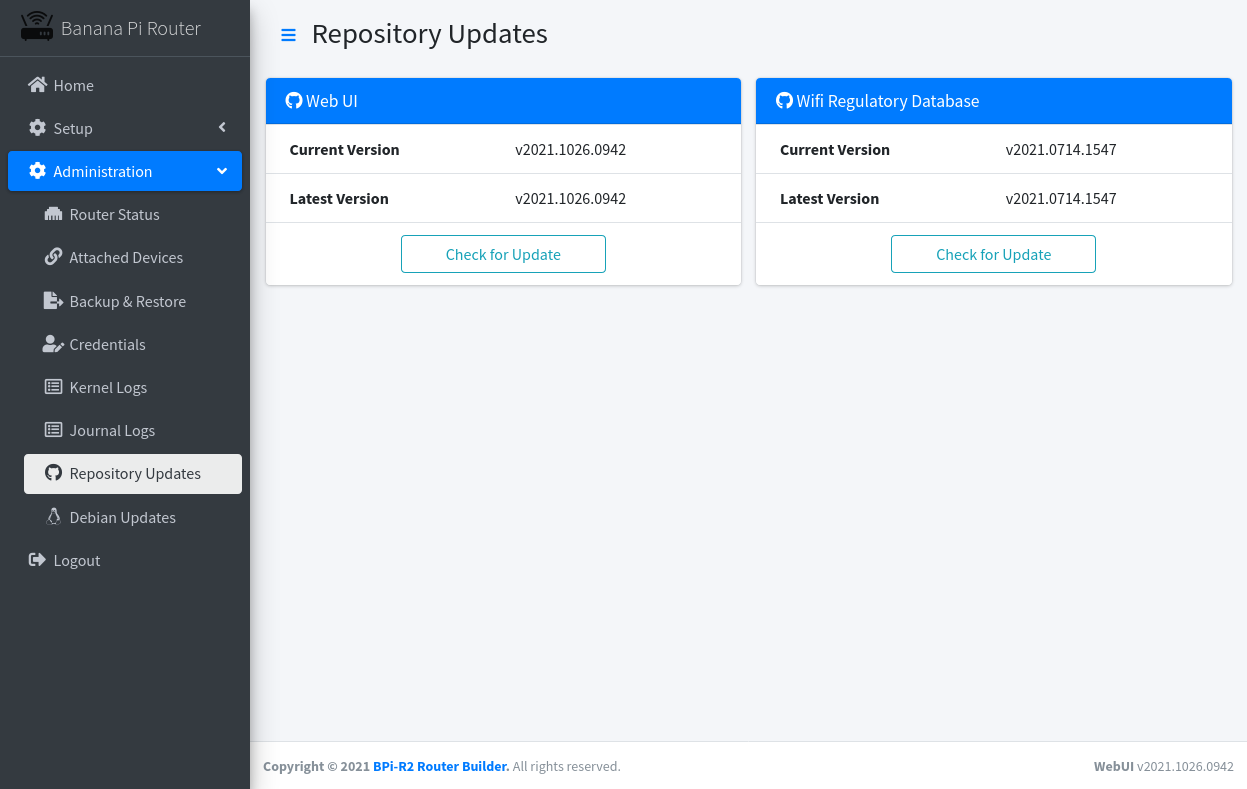
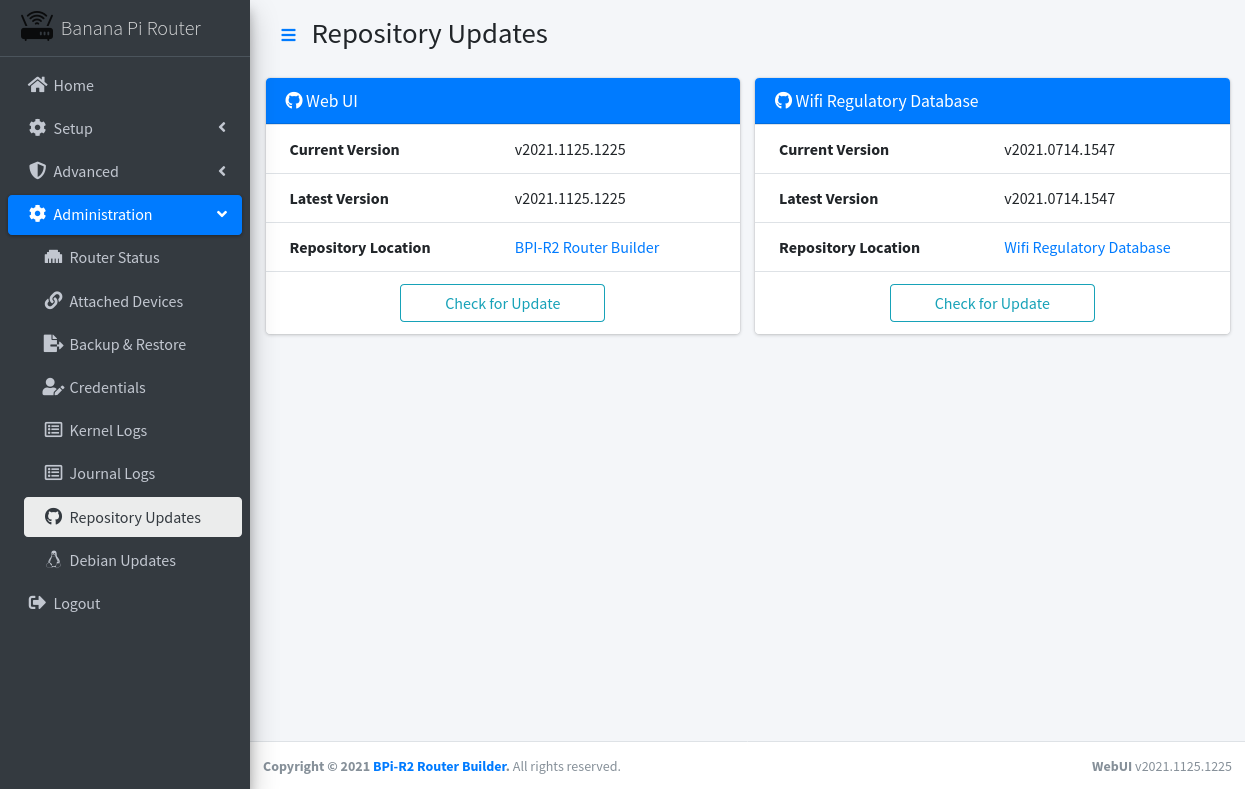
Updated WebUI Admin / Repository Updates

diff --git a/router/includes/admin-repo.php b/router/includes/admin-repo.php
@@ -1,7 +1,7 @@
 <?php
 site_menu();
 
-function show_repo($title, $repo)
+function show_repo($title, $repo, $url, $alt_desc = null)
 {
 	echo '
 		<div class="col-md-6">
@@ -19,6 +19,10 @@ function show_repo($title, $repo)
 						<tr>
 							<td><strong>Latest Version</strong></td>
 							<td><span id="', $repo, '_latest"><i>Retrieving...</i></span></td>
+						</tr>
+						<tr>
+							<td><strong>Repository Location</strong></td>
+							<td><a href="', $url, '">', $alt_desc == null ? $title : $alt_desc, '</a></td>
 						</tr>
 						<tr id="', $repo, '_check_div">
 							<td colspan="2">
@@ -42,8 +46,8 @@ function show_repo($title, $repo)
 echo '
 <div class="container-fluid">
 	<div class="row">';
-show_repo('Web UI', 'webui');
-show_repo('Wifi Regulatory Database', 'regdb');
+show_repo('Web UI', 'webui', 'https://github.com/xptsp/bpiwrt-builder', 'BPI-R2 Router Builder');
+show_repo('Wifi Regulatory Database', 'regdb', 'https://github.com/sforshee/wireless-regdb');
 echo '
 	</div>
 </div>';
